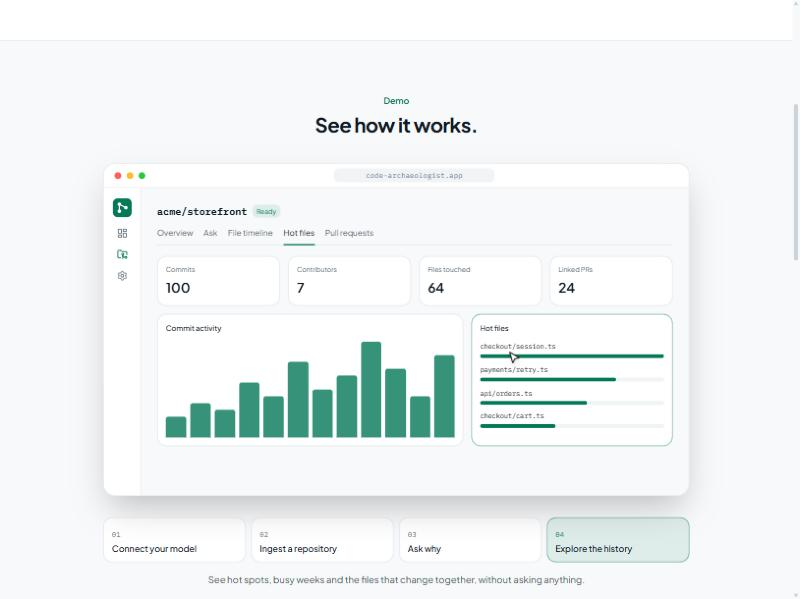
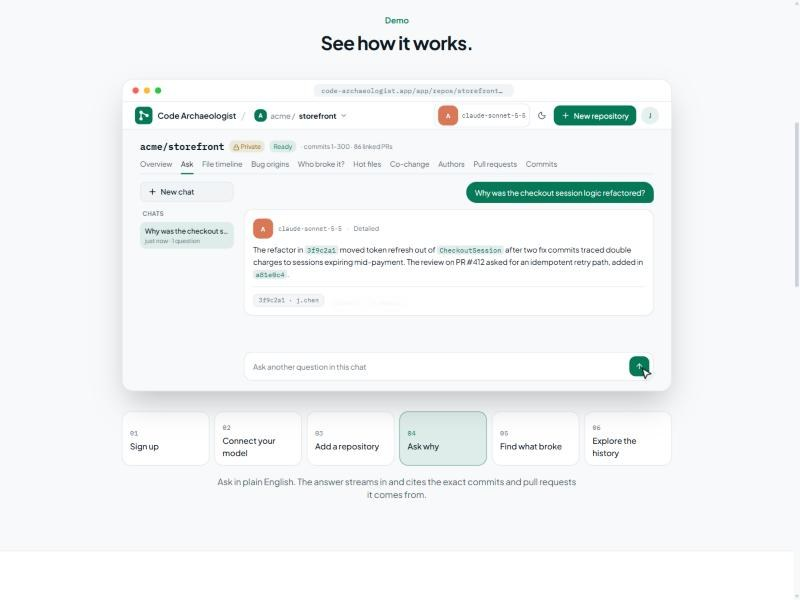
Walkthrough and landing page match the new sign-up; privacy policy covers the new account features
- The walkthrough's sign-up screen has the real form's Confirm password field and strength meter, and the
  cursor types the password twice; the code screen says when the code expires.
- The landing page mentions private repositories and optional two-step sign-in.
- The privacy policy describes the security activity log (shortened IPs, kept 90 days), hashed sign-in
  counters, the short-lived sign-in cookies, and deleting the account from Settings.
- README: a new screenshot of the walkthrough with the top bar and six steps.

diff --git a/frontend/src/components/demo/SignupScene.tsx b/frontend/src/components/demo/SignupScene.tsx
@@ -5,41 +5,53 @@ import type { DemoState, Reg } from "./data";
 import { Btn, Field } from "./frame";
 
 export function SignupScene({ s, t }: { s: DemoState; t: Reg }) {
-  const typing = s.password ? "password" : s.email ? "email" : s.name ? "name" : "";
+  const typing = s.confirm ? "confirm" : s.password ? "password" : s.email ? "email" : s.name ? "name" : "";
+  // The real form's strength meter: it fills as the password gets longer
+  const strength = s.password.length >= 12 ? 3 : s.password.length >= 10 ? 2 : s.password.length >= 8 ? 1 : 0;
   return (
     <div className="absolute inset-x-0 top-9 bottom-0 flex bg-surface">
       <div className="flex min-w-0 flex-1 flex-col">
-        <div className="flex items-center justify-between px-6 py-3">
+        <div className="flex items-center justify-between px-6 py-2">
           <span className="flex items-center gap-2"><LogoMark className="size-6" /><span className="text-[13px] font-semibold">Code Archaeologist</span></span>
           <Moon className="size-3.5 text-muted" />
         </div>
         <div className="flex flex-1 items-center justify-center px-6">
           {!s.verify ? (
-            <div className="w-[300px] animate-fade-up">
+            // The real form (with its confirm field and strength meter) is taller than this frame; drawn a little smaller
+            <div className="origin-center scale-[0.88]"><div className="w-[300px] animate-fade-up">
               <p className="text-[19px] font-bold tracking-tight">Create your account</p>
               <p className="mt-0.5 text-[11.5px] text-muted">Bring your own model key. Start digging in minutes.</p>
-              <div className="mt-3.5 grid grid-cols-2 gap-2">
+              <div className="mt-3 grid grid-cols-2 gap-2">
                 <Btn className="w-full"><GoogleIcon className="size-3.5" /> Google</Btn>
                 <Btn className="w-full"><GitHubIcon className="size-3.5" /> GitHub</Btn>
               </div>
-              <p className="my-2.5 flex items-center gap-2 text-[10.5px] text-subtle">
+              <p className="my-2 flex items-center gap-2 text-[10.5px] text-subtle">
                 <span className="h-px flex-1 bg-border" /> or with email <span className="h-px flex-1 bg-border" />
               </p>
-              <div className="space-y-2">
+              <div className="space-y-1.5">
                 <Field label="Name" value={s.name} placeholder="Ada Lovelace" r={t("signup-name")} focus={typing === "name"} />
                 <Field label="Email" value={s.email} placeholder="you@company.com" r={t("signup-email")} focus={typing === "email"} />
                 <Field label="Password" value={s.password} placeholder="At least 8 characters" r={t("signup-password")} focus={typing === "password"} />
+                {s.password && (
+                  <div className="flex items-center gap-2">
+                    <div className="flex flex-1 gap-1">
+                      {[1, 2, 3].map((i) => <span key={i} className={cn("h-1 flex-1 rounded-full bg-border", strength >= i && "bg-accent")} />)}
+                    </div>
+                    <span className="w-10 text-right text-[10px] text-muted">{["", "Okay", "Good", "Strong"][strength]}</span>
+                  </div>
+                )}
+                <Field label="Confirm password" value={s.confirm} placeholder="Type it again" r={t("signup-confirm")} focus={typing === "confirm"} />
               </div>
-              <span ref={t("create")} className="mt-3 block">
+              <span ref={t("create")} className="mt-2.5 block">
                 <Btn primary className="h-9 w-full">{s.creating && <Loader2 className="size-3.5 animate-spin" />} Create account</Btn>
               </span>
-              <p className="mt-2.5 text-center text-[10.5px] text-muted">Already have an account? <span className="font-medium text-accent">Sign in</span></p>
-            </div>
+              <p className="mt-2 text-center text-[10.5px] text-muted">Already have an account? <span className="font-medium text-accent">Sign in</span></p>
+            </div></div>
           ) : (
             <div className="w-[300px] text-center animate-fade-up">
               <span className="mx-auto grid size-11 place-items-center rounded-xl bg-accent-soft text-accent"><Mail className="size-5" /></span>
               <p className="mt-3 text-[19px] font-semibold tracking-tight">Check your email</p>
-              <p className="mt-1 text-[11.5px] text-muted">We sent a 6-digit code to <span className="font-medium text-text">jo@acme.dev</span>.</p>
+              <p className="mt-1 text-[11.5px] text-muted">We sent a 6-digit code to <span className="font-medium text-text">jo@acme.dev</span>. It expires in 10 minutes.</p>
               <span ref={t("code")} className={cn("mt-4 flex h-11 items-center justify-center rounded-lg border font-mono text-[20px] tracking-[0.4em]",
                 s.code ? "border-accent ring-2 ring-accent-soft" : "border-border text-subtle")}>
                 {s.code || "000000"}

diff --git a/frontend/src/pages/Legal.tsx b/frontend/src/pages/Legal.tsx
@@ -4,7 +4,7 @@ import { Link } from "react-router";
 import { Logo, ThemeToggle } from "../components/brand";
 import { useAuthConfig } from "../lib/queries";
 
-const UPDATED = "October 26, 2026";
+const UPDATED = "November 11, 2026";
 
 function LegalPage({ title, children }: { title: string; children: ReactNode }) {
   return (
@@ -43,7 +43,10 @@ export function Privacy() {
       <h2>What we collect</h2>
       <ul>
         <li><strong>Account details:</strong> your email address and name, and your profile picture if you sign in with
-          Google or GitHub. Passwords are stored only as a bcrypt hash.</li>
+          Google or GitHub. Passwords are stored only as a bcrypt hash. If you turn on two-step sign-in, its secret is
+          encrypted and its recovery codes are stored only as hashes.</li>
+        <li><strong>Security activity:</strong> sign-ins, failed attempts and changes to your account's security, with the
+          browser and a shortened IP address (for example 203.0.113.x), so you can spot activity that wasn't you.</li>
         <li><strong>Model provider API keys</strong> you add (Anthropic, OpenAI, Google Gemini, Groq or OpenRouter). They are
           encrypted at rest and never shown back to you in full.</li>
         <li><strong>GitHub access:</strong> if you connect GitHub, we store encrypted access tokens with read-only access to the
@@ -55,8 +58,11 @@ export function Privacy() {
 
       <h2>How we use it</h2>
       <ul>
-        <li>To sign you in, verify your email address with a one-time code, and keep you signed in with a single
-          session cookie. We use no analytics or advertising cookies.</li>
+        <li>To sign you in, verify your email address or reset your password with a one-time code, and keep you signed in
+          with a session cookie (plus short-lived cookies while you sign in with Google, GitHub or two-step sign-in). We use
+          no analytics or advertising cookies.</li>
+        <li>To protect accounts: attempts to sign in are counted to slow down password guessing. These counts are stored
+          only as hashes, never as raw IP or email addresses, and deleted within a day.</li>
         <li>To answer your questions: relevant excerpts of a repository's history are sent, with your question, to the
           model provider you selected, using your own API key. That provider's terms and privacy policy apply to
           what it receives.</li>
@@ -74,13 +80,15 @@ export function Privacy() {
       <ul>
         <li>Ingested repositories, their indexed history and the questions about them are deleted automatically after
           a limited time (72 hours by default), or immediately when you delete the repository.</li>
-        <li>Account details and saved API keys are kept until you remove them or ask us to delete your account.</li>
+        <li>Security activity is kept for 90 days.</li>
+        <li>Account details and saved API keys are kept until you remove them or delete your account.</li>
       </ul>
 
       <h2>Your choices</h2>
       <p>
         You can delete repositories, clear question history, remove API keys and disconnect GitHub from within the
-        app. To delete your account entirely or ask about your data, <Contact />.
+        app. You can also delete your whole account in Settings, which removes everything listed above straight away.
+        To ask about your data, <Contact />.
       </p>
     </LegalPage>
   );

diff --git a/frontend/src/components/demo/data.ts b/frontend/src/components/demo/data.ts
@@ -63,7 +63,7 @@ export const TRACE_COMMITS = [
   ["3f9c2a1", "Move token refresh out"], ["a81e0c4", "Add idempotent retry"],
 ] as const;
 export interface DemoState {
-  name: string; email: string; password: string; creating: boolean; verify: boolean; code: string; confirming: boolean;
+  name: string; email: string; password: string; confirm: string; creating: boolean; verify: boolean; code: string; confirming: boolean;
   onSettings: boolean; expanded: boolean; keyText: string; saving: boolean; connected: boolean; model: string | null; toast: string | null;
   dialog: boolean; picked: string | null; range: boolean; ingesting: boolean; stage: number;
   askTab: boolean; question: string; asked: boolean; found: boolean; answer: number; sources: number;
@@ -71,7 +71,7 @@ export interface DemoState {
   grow: boolean; timelineTab: boolean; pickerOpen: boolean; pickerText: string; traced: boolean; menu: boolean;
 }
 export const START: DemoState = {
-  name: "", email: "", password: "", creating: false, verify: false, code: "", confirming: false,
+  name: "", email: "", password: "", confirm: "", creating: false, verify: false, code: "", confirming: false,
   onSettings: false, expanded: false, keyText: "", saving: false, connected: false, model: null, toast: null,
   dialog: false, picked: null, range: false, ingesting: false, stage: -1,
   askTab: false, question: "", asked: false, found: false, answer: 0, sources: 0,
@@ -80,7 +80,7 @@ export const START: DemoState = {
 };
 // What each scene looks like when it has finished — used for reduced motion
 export const FINAL: Record<number, Partial<DemoState>> = {
-  0: { name: "Jo Chen", email: "jo@acme.dev", password: "••••••••••" },
+  0: { name: "Jo Chen", email: "jo@acme.dev", password: "••••••••••••", confirm: "••••••••••••" },
   1: { onSettings: true, expanded: true, keyText: "sk-ant-••••••••••••••••", connected: true, model: MODELS[1] },
   2: { picked: REPOS[0].name, ingesting: true, stage: STAGES.length - 1 },
   3: { askTab: true, question: QUESTION, asked: true, found: true, answer: ANSWER.length, sources: SOURCES.length },

diff --git a/frontend/src/pages/Landing.tsx b/frontend/src/pages/Landing.tsx
@@ -1,5 +1,5 @@
 import {
-  ArrowRight, BarChart3, Bug, FileClock, FileSearch, GitMerge, KeyRound, PlayCircle, Search, ShieldCheck,
+  ArrowRight, BarChart3, Bug, FileClock, FileSearch, GitMerge, KeyRound, Lock, PlayCircle, Search, ShieldCheck,
 } from "lucide-react";
 import type { ReactNode } from "react";
 import { Link } from "react-router";
@@ -180,6 +180,7 @@ export function Landing() {
             <ul className="mt-6 space-y-3 text-sm text-muted">
               <li className="flex gap-2.5"><KeyRound className="mt-0.5 size-4 shrink-0 text-accent" /> Keys are encrypted at rest and never sent back to the browser.</li>
               <li className="flex gap-2.5"><ShieldCheck className="mt-0.5 size-4 shrink-0 text-accent" /> Each key is verified with the provider before it's saved.</li>
+              <li className="flex gap-2.5"><Lock className="mt-0.5 size-4 shrink-0 text-accent" /> Your repositories and chats are private to you, with optional two-step sign-in.</li>
             </ul>
           </div>
           <div className="grid grid-cols-1 gap-3 sm:grid-cols-2">

diff --git a/frontend/src/components/demo/ProductDemo.tsx b/frontend/src/components/demo/ProductDemo.tsx
@@ -116,7 +116,9 @@ export function ProductDemo() {
         await press("signup-email", 500);
         await type("jo@acme.dev", (email) => patch({ email }), 45);
         await press("signup-password", 500);
-        await type("••••••••••", (password) => patch({ password }), 40);
+        await type("••••••••••••", (password) => patch({ password }), 40);
+        await press("signup-confirm", 450);   // the real form asks for the password twice
+        await type("••••••••••••", (confirm) => patch({ confirm }), 35);
         await press("create", 600);
         patch({ creating: true });
         await sleep(700);

diff --git a/README.md b/README.md
@@ -25,7 +25,7 @@ You bring your own model: connect an **Anthropic, OpenAI, Google Gemini, Groq or
 
 **Try the live demo** opens a sample repository (pallets/flask) with no sign-up. Further down, the landing page plays an animated walkthrough of the whole flow, from signing up to signing out: connect a model, ingest a repository, ask why, find what broke, explore the history.
 
-![Animated walkthrough](docs/screenshots/walkthrough.jpg)
+![The landing page walkthrough on its Ask step: an answer that cites the commits and pull request it came from](docs/screenshots/walkthrough.jpg)
 
 ---
 
